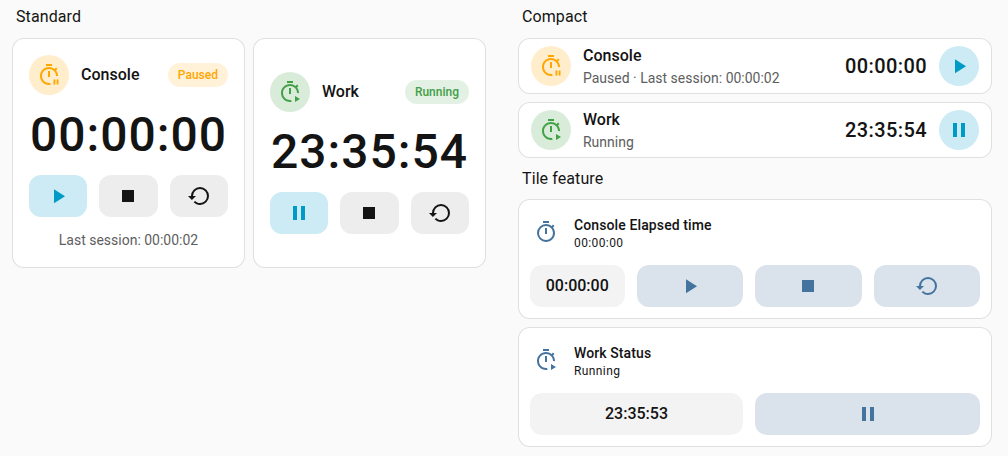
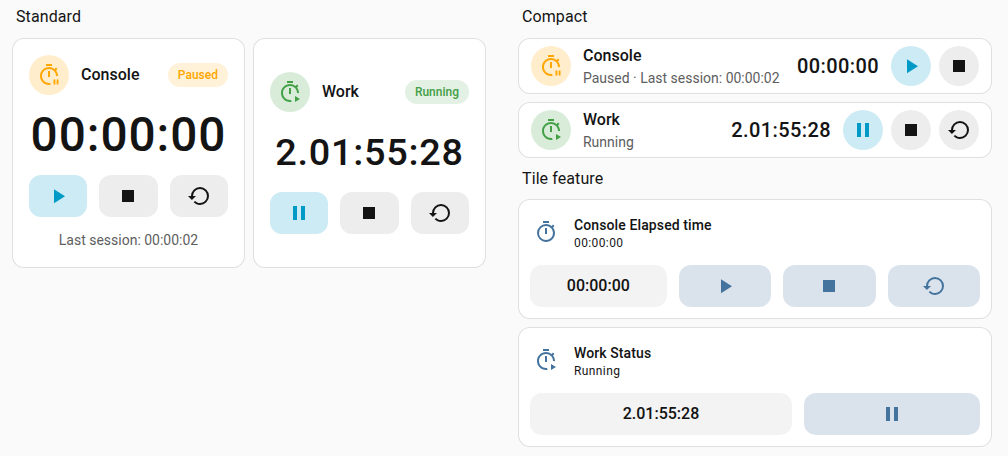
feat: Enhance Stopwatch Plus card with button customization and responsive design

diff --git a/custom_components/stopwatch_plus/www/stopwatch-plus-card.js b/custom_components/stopwatch_plus/www/stopwatch-plus-card.js
@@ -18,6 +18,8 @@ const DOMAIN = "stopwatch_plus";
 const CARD_TYPE = "stopwatch-plus-card";
 const FEATURE_TYPE = "stopwatch-plus-controls";
 const BUTTONS = ["toggle", "stop", "reset"];
+// Buttons of the card when the configuration does not list any
+const DEFAULT_BUTTONS = { standard: BUTTONS, compact: ["toggle", "stop"] };
 
 const STRINGS = {
   en: {
@@ -30,7 +32,6 @@ const STRINGS = {
     layoutStandard: "Standard",
     layoutCompact: "Compact",
     hideStatus: "Hide status",
-    hideControls: "Hide controls",
     hideLastSession: "Hide last session",
     hideTime: "Hide time",
     buttons: "Buttons",
@@ -56,7 +57,6 @@ const STRINGS = {
     layoutStandard: "Standard",
     layoutCompact: "Kompakt",
     hideStatus: "Status ausblenden",
-    hideControls: "Bedienelemente ausblenden",
     hideLastSession: "Letzte Session ausblenden",
     hideTime: "Zeit ausblenden",
     buttons: "Buttons",
@@ -248,6 +248,8 @@ class LiveTimeElement extends HTMLElement {
 
 const CARD_STYLES = `
   ha-card {
+    container-type: inline-size;
+    overflow: hidden;
     height: 100%;
     box-sizing: border-box;
     padding: 16px;
@@ -312,8 +314,12 @@ const CARD_STYLES = `
   }
   .standard .time {
     text-align: center;
-    font-size: 48px;
+    /* Shrinks on narrow cards, and further from one day on (d.HH:MM:SS) */
+    font-size: min(48px, 24cqi);
     line-height: 56px;
+  }
+  .standard .time.long {
+    font-size: min(48px, 19cqi);
   }
   .compact .time {
     flex: none;
@@ -326,6 +332,8 @@ const CARD_STYLES = `
   }
   .control {
     flex: 1;
+    min-width: 0;
+    padding: 0;
     height: 42px;
     border: none;
     border-radius: 12px;
@@ -351,6 +359,9 @@ const CARD_STYLES = `
     cursor: default;
     opacity: 0.4;
   }
+  .compact .controls {
+    gap: 8px;
+  }
   .compact .control {
     flex: none;
     width: 40px;
@@ -372,9 +383,59 @@ const CARD_STYLES = `
   }
   .row .header {
     flex: 1;
+    min-width: 48px;
   }
   .warning {
     color: var(--warning-color);
+  }
+  /* Narrow cards, e.g. half of a section in a dashboard with several columns */
+  @container (max-width: 240px) {
+    .standard .status {
+      display: none;
+    }
+    .controls {
+      gap: 8px;
+    }
+    .compact .secondary {
+      display: none;
+    }
+    .compact {
+      padding: 8px;
+    }
+    /* The name gives way first, the time and the buttons stay usable */
+    .row .header {
+      min-width: 0;
+    }
+    .compact .time {
+      font-size: 14px;
+    }
+    .compact .control {
+      width: 32px;
+      height: 32px;
+    }
+  }
+  @container (max-width: 150px) {
+    .standard .icon {
+      display: none;
+    }
+  }
+  @container (max-width: 340px) {
+    .compact .icon {
+      display: none;
+    }
+    .compact .time {
+      font-size: 16px;
+    }
+    .compact .controls {
+      gap: 4px;
+    }
+    .compact .control {
+      width: 36px;
+      height: 36px;
+    }
+    .row {
+      gap: 8px;
+    }
   }
   [hidden] {
     display: none !important;
@@ -393,7 +454,7 @@ class StopwatchPlusCard extends LiveTimeElement {
     const entry = Object.values(hass?.entities || {}).find(
       (entity) => entity.platform === DOMAIN && entity.translation_key === "elapsed"
     );
-    return { entity: entry?.entity_id || "", layout: "standard" };
+    return { entity: entry?.entity_id || "", layout: "standard", buttons: [...BUTTONS] };
   }
 
   static getConfigForm() {
@@ -418,11 +479,20 @@ class StopwatchPlusCard extends LiveTimeElement {
           },
         },
         {
+          name: "buttons",
+          selector: {
+            select: {
+              multiple: true,
+              mode: "list",
+              options: BUTTONS.map((button) => ({ value: button, label: localize(undefined, button) })),
+            },
+          },
+        },
+        {
           type: "grid",
           name: "",
           schema: [
             { name: "hide_status", selector: { boolean: {} } },
-            { name: "hide_controls", selector: { boolean: {} } },
             { name: "hide_last_session", selector: { boolean: {} } },
           ],
         },
@@ -433,7 +503,7 @@ class StopwatchPlusCard extends LiveTimeElement {
           name: localize(undefined, "name"),
           layout: localize(undefined, "layout"),
           hide_status: localize(undefined, "hideStatus"),
-          hide_controls: localize(undefined, "hideControls"),
+          buttons: localize(undefined, "buttons"),
           hide_last_session: localize(undefined, "hideLastSession"),
         })[schema.name],
     };
@@ -548,36 +618,42 @@ class StopwatchPlusCard extends LiveTimeElement {
         ? `${localize(hass, "lastSession")}: ${formatDuration(lastSeconds)}`
         : "";
 
+    // Configured buttons in a fixed order, or the default of the layout
+    const buttons = Array.isArray(config.buttons)
+      ? BUTTONS.filter((button) => config.buttons.includes(button))
+      : DEFAULT_BUTTONS[compact ? "compact" : "standard"];
+    renderButtons(elements.controls, hass, buttons, this._stopwatch.elapsed, status, "control");
+    elements.controls.hidden = buttons.length === 0;
+
     if (compact) {
       const parts = [];
       if (!config.hide_status) parts.push(statusLabel(hass, stateObj));
       if (!config.hide_last_session && lastText) parts.push(lastText);
       setText(elements.secondary, parts.join(" · "));
       elements.secondary.hidden = parts.length === 0;
-      const buttons = config.hide_controls ? [] : ["toggle"];
-      renderButtons(elements.controls, hass, buttons, this._stopwatch.elapsed, status, "control");
     } else {
       setText(elements.status, statusLabel(hass, stateObj));
       elements.status.hidden = Boolean(config.hide_status);
-      renderButtons(elements.controls, hass, BUTTONS, this._stopwatch.elapsed, status, "control");
-      elements.controls.hidden = Boolean(config.hide_controls);
       setText(elements.last, lastText);
       elements.last.hidden = Boolean(config.hide_last_session) || !lastText;
     }
-    elements.controls.hidden = Boolean(config.hide_controls);
     this._tick();
     this._updateTicker();
   }
 
   _tick() {
     const stateObj = this._elapsedState();
-    if (stateObj && this._elements) setText(this._elements.time, formatDuration(liveSeconds(stateObj)));
+    if (!stateObj || !this._elements) return;
+    const text = formatDuration(liveSeconds(stateObj));
+    setText(this._elements.time, text);
+    this._elements.time.classList.toggle("long", text.length > 8);
   }
 }
 
 const FEATURE_STYLES = `
   :host {
     display: block;
+    container-type: inline-size;
   }
   .container {
     display: flex;
@@ -585,11 +661,14 @@ const FEATURE_STYLES = `
     height: var(--feature-height, 42px);
   }
   .time {
-    flex: 1;
+    flex: 1.5 1 auto;
     display: flex;
     align-items: center;
     justify-content: center;
-    min-width: 0;
+    /* The time is never cut off; the buttons get narrower instead */
+    min-width: max-content;
+    padding: 0 12px;
+    white-space: nowrap;
     border-radius: var(--feature-border-radius, 12px);
     font-variant-numeric: tabular-nums;
     font-weight: 500;
@@ -616,6 +695,24 @@ const FEATURE_STYLES = `
   .button:disabled {
     cursor: default;
     opacity: 0.4;
+  }
+  @container (max-width: 280px) {
+    .container {
+      gap: 6px;
+    }
+    .time {
+      padding: 0 8px;
+      font-size: 14px;
+    }
+  }
+  @container (max-width: 200px) {
+    .time {
+      padding: 0 6px;
+      font-size: 12px;
+    }
+    .button {
+      min-width: 28px;
+    }
   }
   [hidden] {
     display: none !important;
@@ -720,6 +817,42 @@ class StopwatchPlusControls extends LiveTimeElement {
 }
 
 /**
+ * Suggest the card for a stopwatch entity in the card picker ("By entity").
+ *
+ * Offered for every entity of a stopwatch; the cards use its elapsed time sensor.
+ * The card picker shows them below "Community" as "Stopwatch Plus - <label>".
+ */
+function entitySuggestions(hass, entityId) {
+  if (!isStopwatchEntity(hass, entityId)) return null;
+  const entity = resolveStopwatch(hass, entityId).elapsed || entityId;
+  return [
+    {
+      label: localize(hass, "layoutStandard"),
+      config: { type: `custom:${CARD_TYPE}`, entity, layout: "standard", buttons: [...BUTTONS] },
+    },
+    {
+      label: localize(hass, "layoutCompact"),
+      config: {
+        type: `custom:${CARD_TYPE}`,
+        entity,
+        layout: "compact",
+        buttons: [...DEFAULT_BUTTONS.compact],
+      },
+    },
+    {
+      label: localize(hass, "featureName"),
+      // The feature shows the live time, so the (less often updated) state is hidden
+      config: {
+        type: "tile",
+        entity,
+        hide_state: true,
+        features: [{ type: `custom:${FEATURE_TYPE}` }],
+      },
+    },
+  ];
+}
+
+/**
  * Wait until the Home Assistant frontend has started.
  *
  * The frontend replaces window.customElements with a scoped registry polyfill when
@@ -748,6 +881,7 @@ whenFrontendReady().then(() => {
       description: localize(undefined, "cardDescription"),
       preview: true,
       documentationURL: "https://github.com/bornste/hacs-stopwatch",
+      getEntitySuggestion: entitySuggestions,
     });
   }
   

diff --git a/docs/hacs-stopwatch-spec.md b/docs/hacs-stopwatch-spec.md
@@ -131,7 +131,7 @@ Same principle as the core `timer`: the state changes rarely and the frontend do
 - One file, `custom_components/stopwatch_plus/www/stopwatch-plus-card.js`, plain JavaScript (web components, no build step, no dependencies besides the elements of the Home Assistant frontend such as `ha-card` and `ha-icon`).
 - The integration serves the folder under `/stopwatch_plus_frontend/` and adds the file with `frontend.add_extra_js_url` (URL with `?v=<version>` so browsers load a new version). `frontend` and `http` are `after_dependencies`; without them (tests, minimal setups) nothing is registered.
 - The elements are defined only after the frontend has started (`home-assistant` defined): the frontend replaces `window.customElements` with a scoped registry polyfill, and elements defined earlier would not be found ("Custom element doesn't exist").
-- Card `custom:stopwatch-plus-card`: options `entity` (any entity of a stopwatch; the elapsed time and last session sensors are found via the device and the translation keys `elapsed` / `last_session`), `name`, `layout` (`standard` / `compact`), `hide_status`, `hide_controls`, `hide_last_session`. Visual editor via `getConfigForm`, card picker entry, stub config with the first stopwatch. Buttons call the actions `stopwatch_plus.toggle`, `stop` and `reset`; Stop and Reset are disabled while idle.
+- Card `custom:stopwatch-plus-card`: options `entity` (any entity of a stopwatch; the elapsed time and last session sensors are found via the device and the translation keys `elapsed` / `last_session`), `name`, `layout` (`standard` / `compact`), `buttons` (subset of `toggle`, `stop`, `reset`; default: all three in the standard layout, `toggle` and `stop` in the compact one), `hide_status`, `hide_last_session`. The time shrinks with the card width (container query units) and a bit more from one day on; container queries leave out the status badge (below 240 px), the icon (standard below 150 px, compact below 340 px) and the secondary line of the compact layout on narrow cards. The tile feature keeps the time fully visible and narrows the buttons instead. Visual editor via `getConfigForm`, card picker entry, stub config with the first stopwatch, and `getEntitySuggestion` for the "By entity" suggestions (standard, compact, tile card with the feature and `hide_state`). Buttons call the actions `stopwatch_plus.toggle`, `stop` and `reset`; Stop and Reset are disabled while idle.
 - Tile card feature `custom:stopwatch-plus-controls` for any stopwatch entity: options `hide_time` and `buttons` (subset of `toggle`, `stop`, `reset`).
 - Texts in English and German (from the user language), statuses via the entity translations.
 

diff --git a/README.md b/README.md
@@ -126,20 +126,22 @@ Go to **Settings → Devices & services → Add integration**, search for **Stop
 
 Stopwatch Plus brings its own dashboard card. It is loaded automatically – no resource has to be added. It counts live in the browser every second, whatever the sensor update interval, and has buttons for Start/Pause, Stop and Reset.
 
-In the dashboard editor, choose **Add card → Stopwatch Plus** and select a stopwatch. Everything can be set in the visual editor; in YAML:
+In the dashboard editor, choose **Add card** and either pick a stopwatch entity under **By entity** – the suggestions offer the card in both layouts and a tile card with the controls – or choose **By card → Stopwatch Plus** and select a stopwatch. Everything can be set in the visual editor; in YAML:
 
 ```yaml
 type: custom:stopwatch-plus-card
 entity: sensor.gaming_elapsed_time  # any entity of the stopwatch
 name: Gaming                        # optional, default: the name of the stopwatch
 layout: standard                    # standard (default) or compact
+buttons: [toggle, stop, reset]      # any of them; [] for none
 hide_status: false
-hide_controls: false
 hide_last_session: false
 ```
 
 - **Standard:** name and status, the running time in large digits, the buttons and the last session.
-- **Compact:** one row with name, status, time and a Start/Pause button – e.g. for a list of stopwatches.
+- **Compact:** one row with name, status, time and the buttons – e.g. for a list of stopwatches.
+- **Buttons:** without `buttons`, the standard layout shows Start/Pause, Stop and Reset, the compact layout Start/Pause and Stop. Stop and Reset are greyed out while the stopwatch is idle.
+- **Narrow cards:** the card adapts to its width – the time gets smaller, and on very narrow cards the status badge and the icon are left out. The compact layout needs about half a section; for narrower cards, the standard layout works better.
 
 **Tile card feature:** a [tile card](https://www.home-assistant.io/dashboards/tile/) of any stopwatch entity can show the live time and the buttons as a feature. In the tile card editor, choose **Features → Add feature → Stopwatch Plus controls**; in YAML:
 

diff --git a/CHANGELOG.md b/CHANGELOG.md
@@ -6,8 +6,9 @@ All notable changes to Stopwatch Plus are documented here. The format follows [K
 
 ### Added
 
-- Dashboard card *Stopwatch Plus* (`custom:stopwatch-plus-card`), shipped with the integration and loaded automatically: counts live in the browser every second, independent of the sensor update interval, with buttons for Start/Pause, Stop and Reset, the status and the last session. Layouts *standard* and *compact*, visual editor, English and German.
+- Dashboard card *Stopwatch Plus* (`custom:stopwatch-plus-card`), shipped with the integration and loaded automatically: counts live in the browser every second, independent of the sensor update interval, with buttons for Start/Pause, Stop and Reset (selectable), the status and the last session. Layouts *standard* and *compact*, visual editor, English and German.
 - Tile card feature *Stopwatch Plus controls* (`custom:stopwatch-plus-controls`): live time and buttons below a tile card of a stopwatch entity.
+- Card suggestions: when adding a card *By entity* and picking a stopwatch entity, the card picker offers the card (standard and compact) and a tile card with the controls.
 
 ## [0.3.0] - 2026-09-25
 
